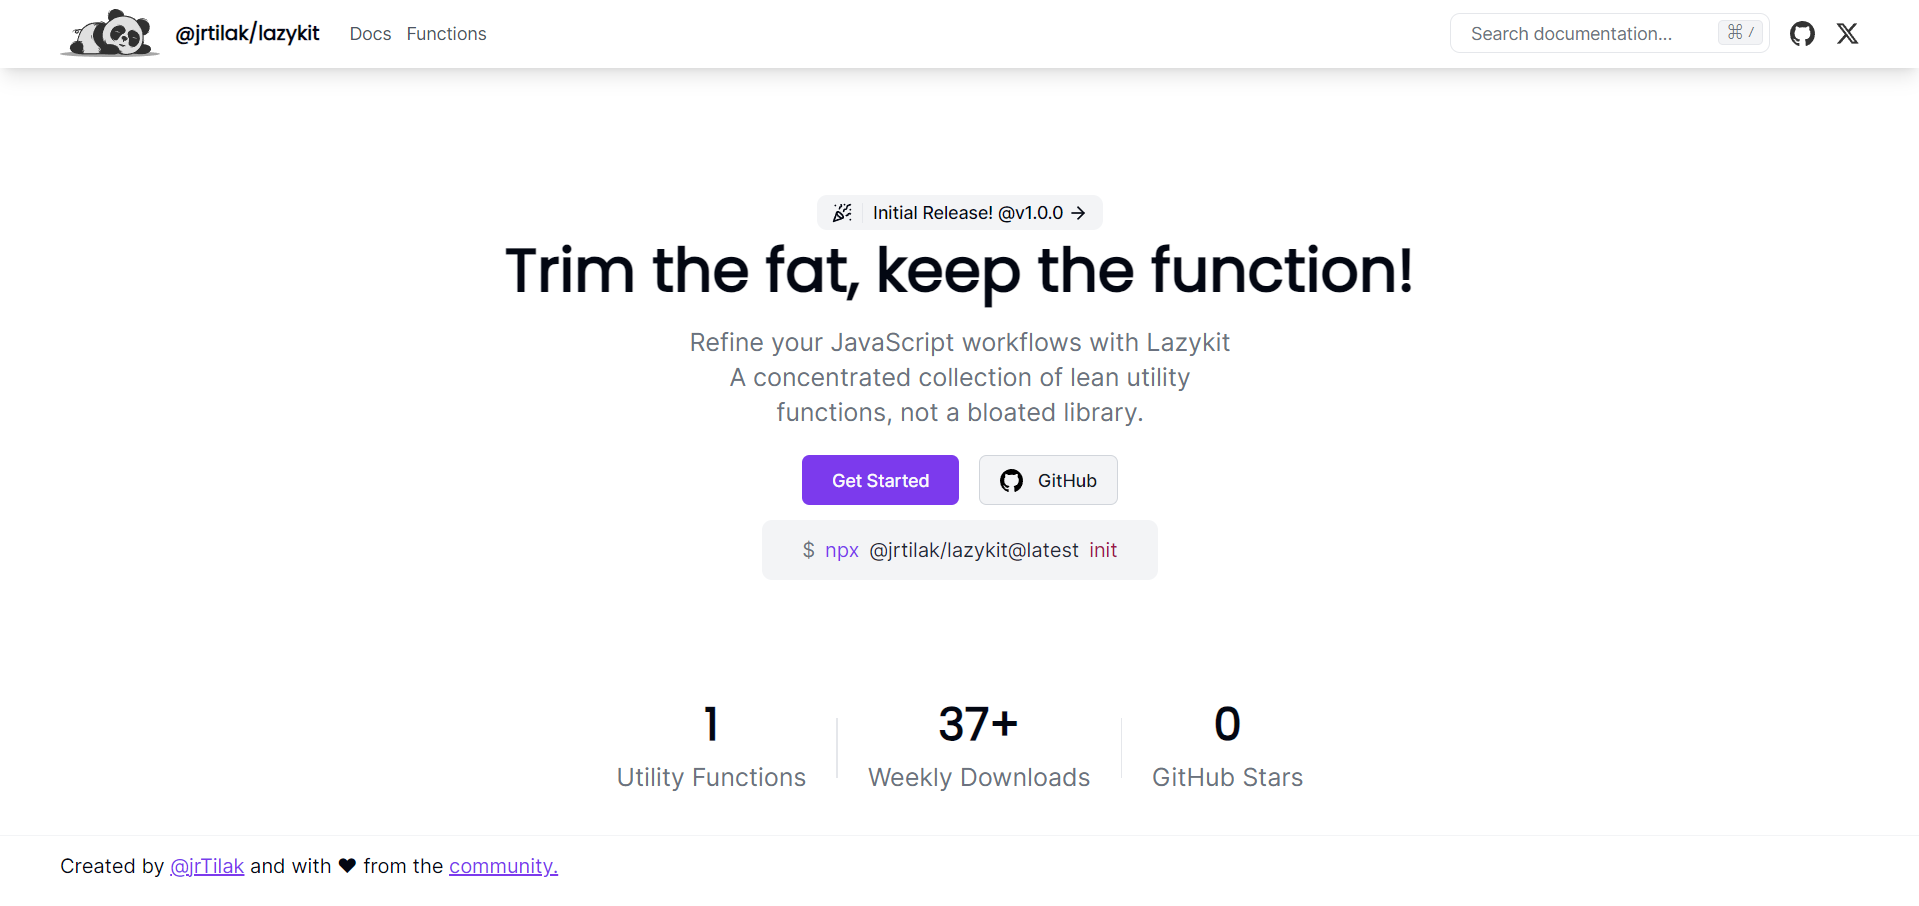
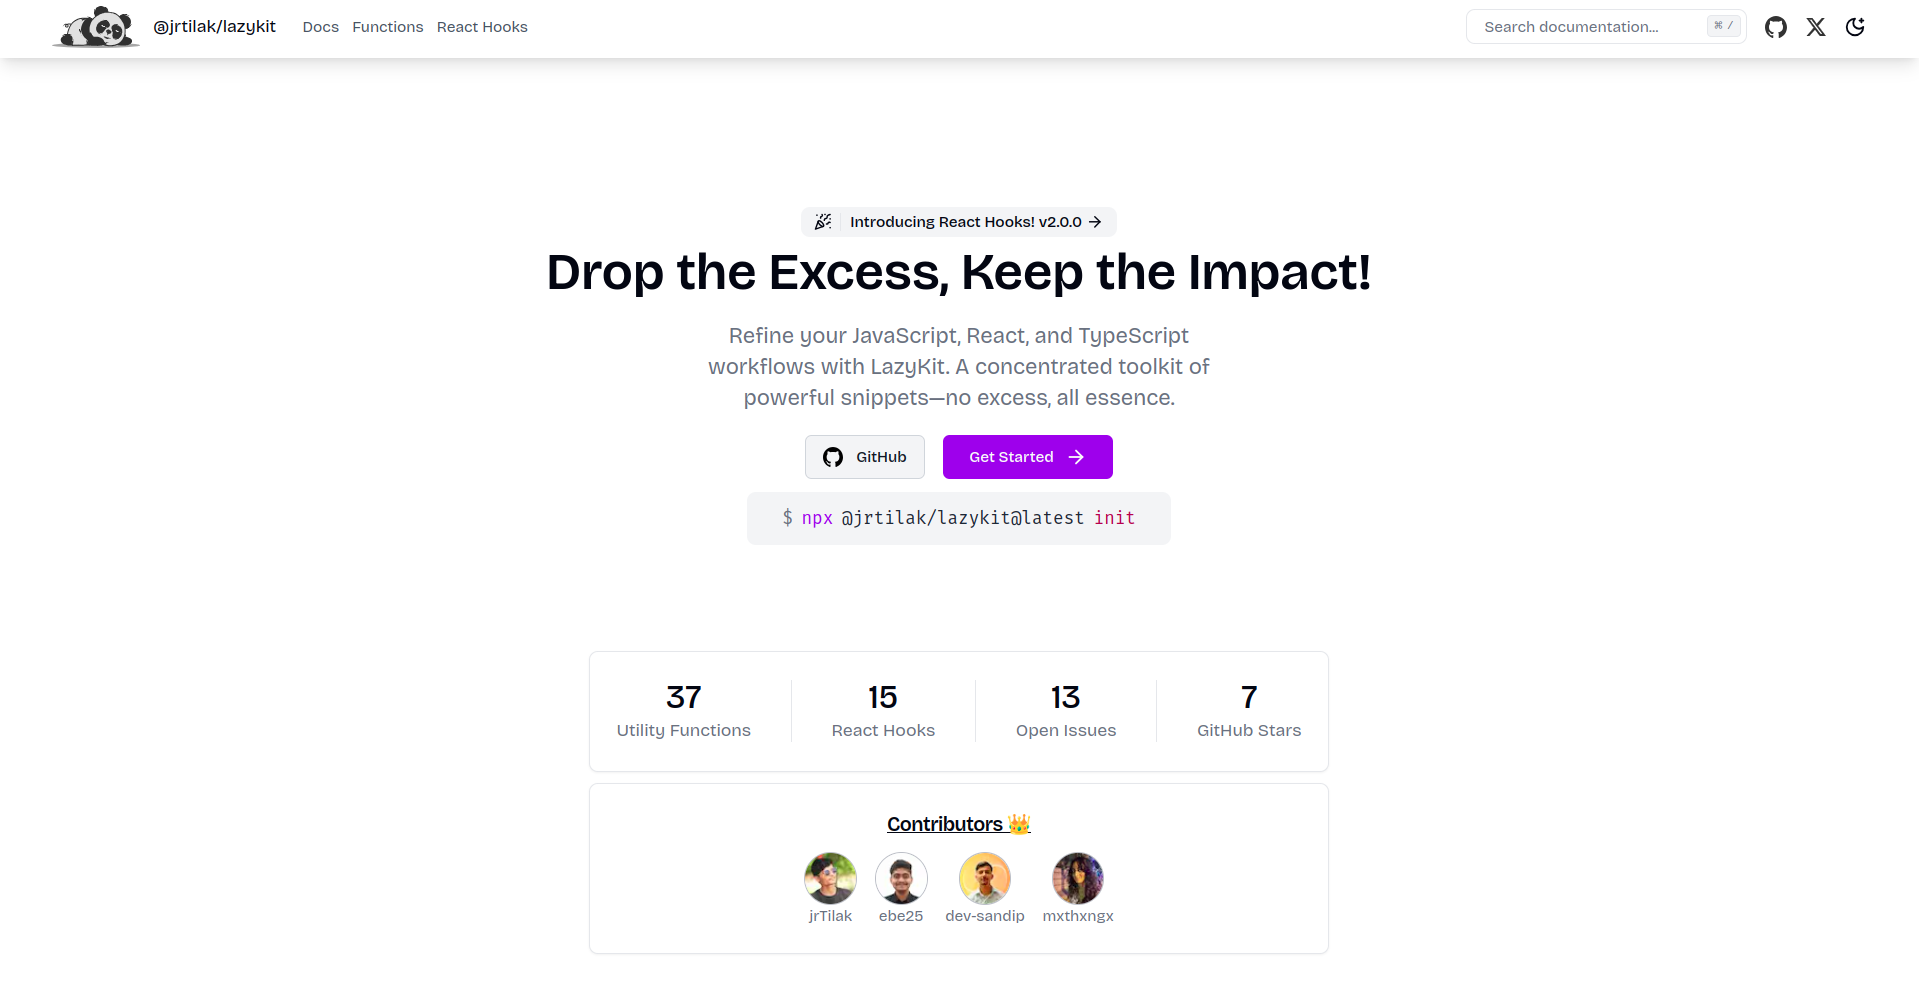
chore: change thumbnail

diff --git a/src/www/src/app/(pages)/docs/[...slug]/page.tsx b/src/www/src/app/(pages)/docs/[...slug]/page.tsx
@@ -4,6 +4,8 @@ import RenderMdx from "@/components/mdx/render-mdx";
 import { getMethodPageBySlug } from "@/helpers/get-method-page-by-slug";
 import { Separator } from "@/components/ui/separator";
 import Error404 from "@/components/blocks/404";
+import { Metadata } from "next";
+import { PACKAGE_INFO } from "@/data/info";
 
 const DocsPage = async ({ params: { slug } }: { params: { slug: string[] } }) => {
   const predefinedPage = await getPredefinedPageBySlug(slug.join("/"));
@@ -43,37 +45,33 @@ export async function generateStaticParams() {
   return urls.map((url) => ({ slug: url }));
 }
 
-// export const generateMetadata = async ({
-//   params: { slug },
-// }: {
-//   params: { slug: string[] };
-// }) => {
-//   const predefinedPage = PAGES_CONFIG.find(
-//     (page) => page.path === `/docs/${slug.join("/")}`
-//   );
-//   if (predefinedPage) {
-//     return predefinedPage.metaData;
-//   }
-//   if (
-//     slug.length === 1 &&
-//     types.filter((type) => type.label.toLowerCase() === slug[0]).length === 1
-//   ) {
-//     return {
-//       title: `${slug[0]} | ${PACKAGE_INFO.name}`,
-//     };
-//   }
-//   if (slug.length === 3) {
-//     const methodData = registry?.find(
-//       (method: any) =>
-//         method.type === slug[0] &&
-//         method.category === slug[1] &&
-//         method.name === slug[2]
-//     );
-//     if (!methodData) return;
+export const generateMetadata = async ({
+  params: { slug },
+}: {
+  params: { slug: string[] };
+}): Promise<Metadata> => {
+  const predefinedPage = await getPredefinedPageBySlug(slug.join("/"));
+  if (predefinedPage) {
+    return (
+      {
+        title: `${predefinedPage.meta.title} | ${PACKAGE_INFO.name}`,
+        description: predefinedPage.meta.desc,
+      }
+    )
+  }
 
-//     return {
-//       title: `${methodData?.name} | ${PACKAGE_INFO.name}`,
-//       description: methodData?.docs?.metaData?.desc as string,
-//     };
-//   }
-// };
+  const methodPage = await getMethodPageBySlug(slug.join("/"));
+  if (methodPage) {
+    return (
+      {
+        title: `${methodPage.meta.name} | ${PACKAGE_INFO.name}`,
+        description: methodPage.meta.desc,
+      }
+    )
+  }
+
+  return {
+    title: "404 | Not Found",
+    description: "Page not found",
+  }
+};

diff --git a/src/www/src/app/(pages)/(home)/page.tsx b/src/www/src/app/(pages)/(home)/page.tsx
@@ -136,7 +136,7 @@ export default async function Home() {
                       <Link
                         key={i}
                         target="_blank"
-                        href={c.url}
+                        href={c.html_url}
                         className="flex flex-col justify-center items-center text-center group"
                       >
                         <Image className="size-12 rounded-full bg-muted shadow-inner border border-muted-foreground/40 object-cover object-center" height={48} width={40} src={c.avatar_url} alt="" />

diff --git a/src/www/src/data/metadata.ts b/src/www/src/data/metadata.ts
@@ -38,5 +38,16 @@ export const META_DATA: Metadata = {
     "TypeScript libraries",
     "Code optimization",
     "Developer tools",
+    "react-hooks",
+    "react",
+    "hooks",
+    "react hooks",
+    "reactjs",
+    "usehooks",
+    "use hooks ts",
+    "use hooks js",
+    "usehooks ts",
+    "hooks ts",
+    "hooks js",
   ],
 };

diff --git a/README.md b/README.md
@@ -6,22 +6,21 @@
   <br>
 </h1>
 
-<h4 align="center">Trim the fat, Keep the function</h4>
+<h3 align="center">Drop the Excess, Keep the Impact!</h3>
 
 ---
 
-Refine your JavaScript workflows with Lazykit.
-A concentrated collection of lean utility functions, not a bloated library.
+Refine your JavaScript, React, and TypeScript workflows with LazyKit. A concentrated toolkit of powerful snippets—no excess, all essence.
 
 ![screenshot](./src/www/public/image.png)
 
 ## Documentation
 
-Visit [here](https://lazykit.thapatilak.com.np/docs/introduction) for detailed documentation.
+Visit [here](https://lazykit.thapatilak.com.np/docs/) for detailed documentation.
 
 ## Contributing
 
-Visit [here](./docs/README.md) for contributing guidelines.
+Visit [here](https://lazykit.thapatilak.com.np/docs/contributing) for contributing guidelines.
 
 ## License
 
@@ -32,5 +31,9 @@ Visit [here](./LICENSE) for license information.
 - [NPM Package](https://www.npmjs.com/package/@jrtilak/lazykit)
 - [Develop Branch](https://lazykit-www-git-dev-tilak-thapas-projects.vercel.app/)
 - [Master Branch](https://lazykit.thapatilak.com.np/)
+
+```bash
+npx @jrtilak/lazykit@latest init 
+```
 
 Thank you for using Lazykit! <3

diff --git a/src/www/README.md b/src/www/README.md
@@ -6,6 +6,6 @@
   <br>
 </h1>
 
-<h4 align="center">Trim the fat, Keep the function</h4>
+<h4 align="center">Drop the Excess, Keep the Impact!</h4>
 
 ![screenshot](./public/image.png)
